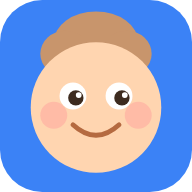
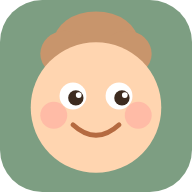
Unificar la identidad visual en el verde salvia de la marca
El icono y el theme-color eran azules mientras que la landing usa verde
salvia. Se pasa todo al color de marca (#7D9E82):

- favicon.svg de la landing y de la app
- favicon.ico y PNG derivados, regenerados
- icon-192, icon-512 y apple-touch-icon, regenerados
- theme-color de la app y theme_color del manifiesto
- background_color del manifiesto al fondo real de la app (crema)

Se mantienen en azul las líneas de las gráficas: ahí el color cumple una
función de legibilidad de los datos, no de marca.

Claude-Session: https://claude.ai/code/session_011BhHWbxyNZfYfVGPW9qhLe

diff --git a/index.html b/index.html
@@ -23,7 +23,7 @@
     <link rel="apple-touch-icon" href="/apple-touch-icon.png" />
 
     <!-- Color de barra de navegador en Android -->
-    <meta name="theme-color" content="#2563eb" />
+    <meta name="theme-color" content="#7D9E82" />
   </head>
   <body>
     <div id="root"></div>
